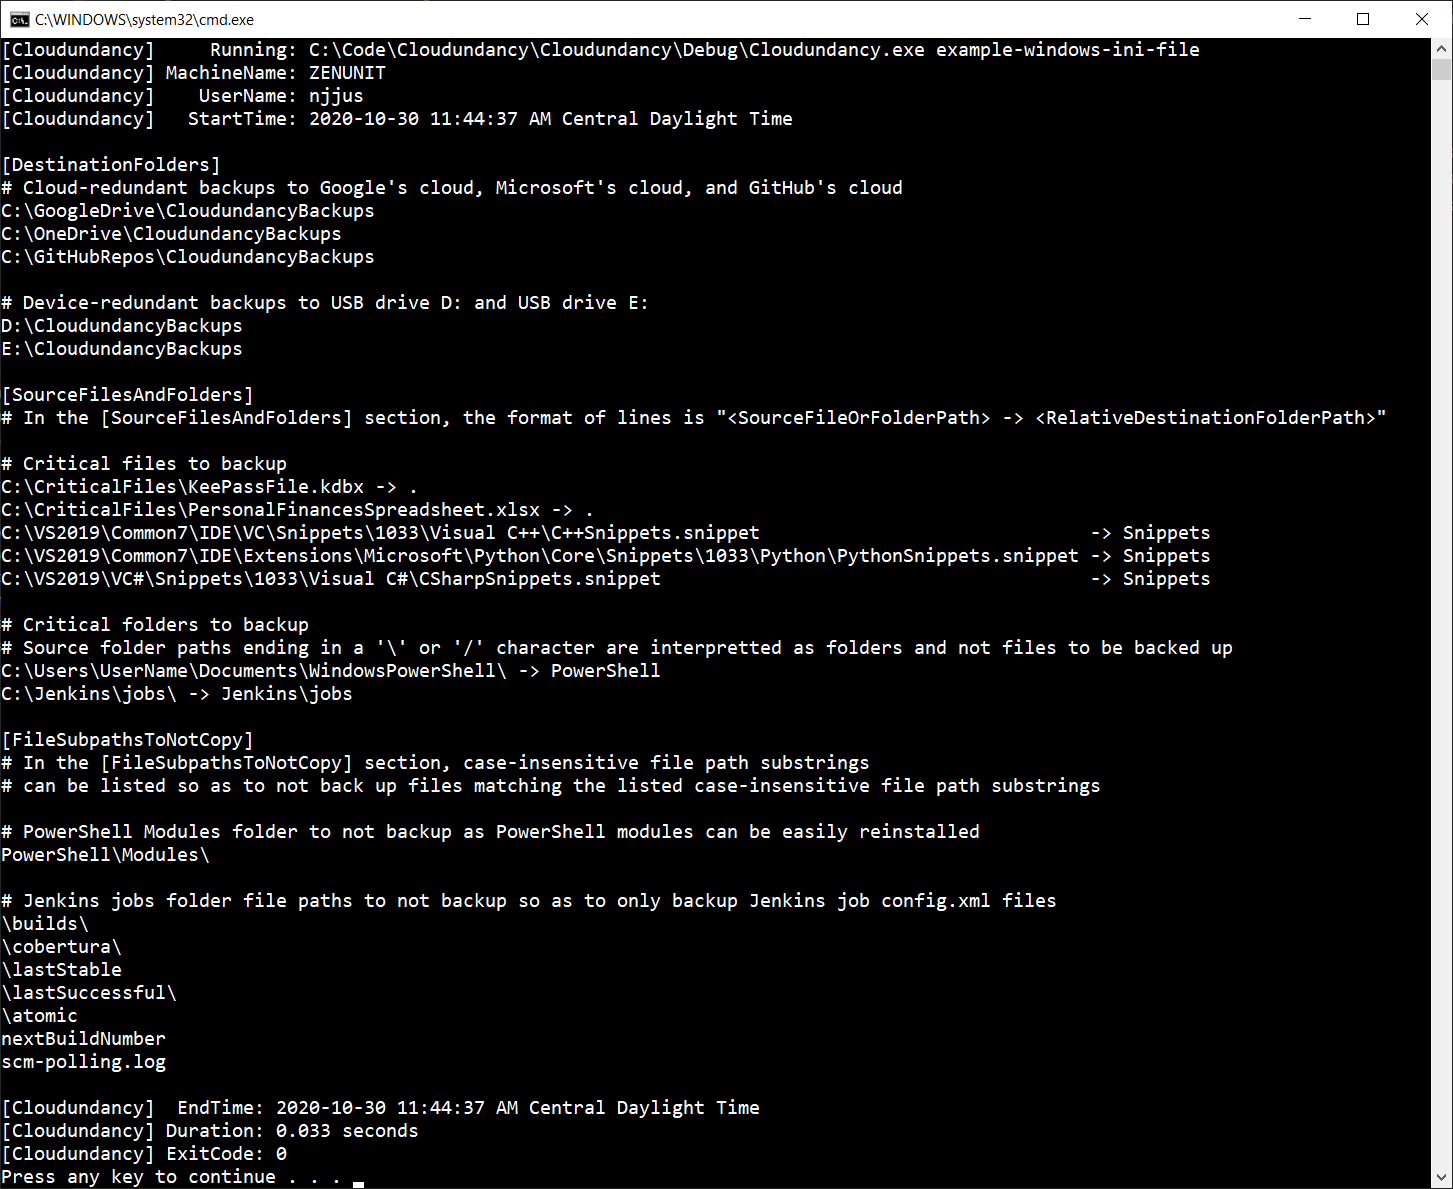
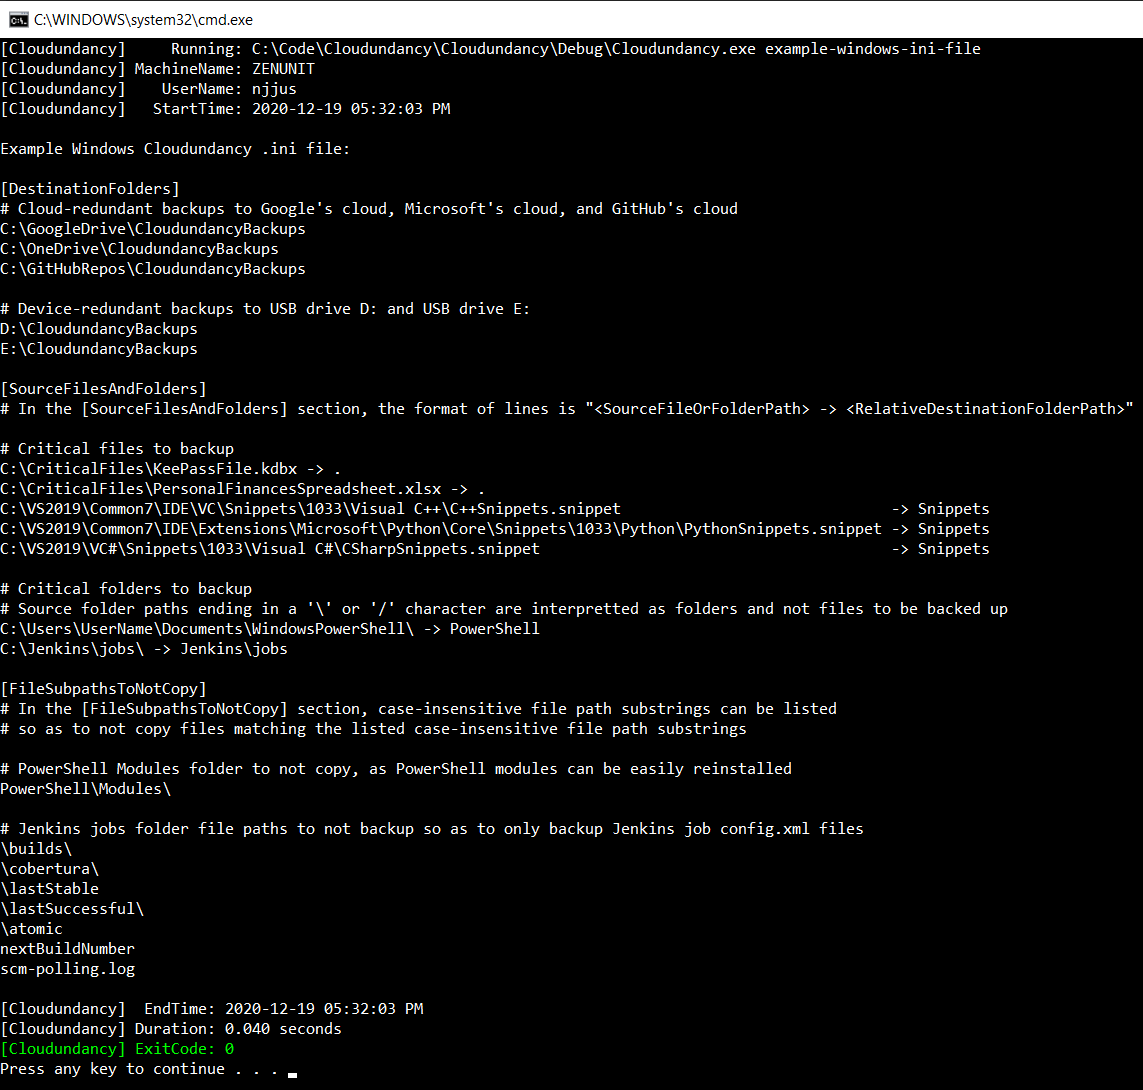
Update readme

Changed region(s): [[0.0, 0.0, 1.0, 1.0], [0.4287, 0.156, 0.6124, 0.2183], [0.6124, 0.1872, 0.643, 0.2183]]

diff --git a/libCloudundancyTests/Components/SubPrograms/ExampleWindowsIniFileSubProgramTests.cpp b/libCloudundancyTests/Components/SubPrograms/ExampleWindowsIniFileSubProgramTests.cpp
@@ -21,7 +21,7 @@ TEST(Run_PrintsExampleWindowsIniFile_Returns0)
    const int exitCode = _exampleWindowsIniFileSubProgram.Run(args);
    //
    const string expectedExampleWindowsIniFileText =
-      R"(
+R"(
 Example Windows Cloudundancy .ini file:
 
 [DestinationFolders]
@@ -50,10 +50,10 @@ C:\Users\UserName\Documents\WindowsPowerShell\ -> PowerShell
 C:\Jenkins\jobs\ -> Jenkins\jobs
 
 [FileSubpathsToNotCopy]
-# In the [FileSubpathsToNotCopy] section, case-insensitive file path substrings
-# can be listed so as to not back up files matching the listed case-insensitive file path substrings
+# In the [FileSubpathsToNotCopy] section, case-insensitive file path substrings can be listed
+# so as to not copy files matching the listed case-insensitive file path substrings
 
-# PowerShell Modules folder to not backup as PowerShell modules can be easily reinstalled
+# PowerShell Modules folder to not copy, as PowerShell modules can be easily reinstalled
 PowerShell\Modules\
 
 # Jenkins jobs folder file paths to not backup so as to only backup Jenkins job config.xml files

diff --git a/libCloudundancy/Components/SubPrograms/ExampleWindowsIniFileSubProgram.cpp b/libCloudundancy/Components/SubPrograms/ExampleWindowsIniFileSubProgram.cpp
@@ -33,10 +33,10 @@ C:\Users\UserName\Documents\WindowsPowerShell\ -> PowerShell
 C:\Jenkins\jobs\ -> Jenkins\jobs
 
 [FileSubpathsToNotCopy]
-# In the [FileSubpathsToNotCopy] section, case-insensitive file path substrings
-# can be listed so as to not back up files matching the listed case-insensitive file path substrings
+# In the [FileSubpathsToNotCopy] section, case-insensitive file path substrings can be listed
+# so as to not copy files matching the listed case-insensitive file path substrings
 
-# PowerShell Modules folder to not backup as PowerShell modules can be easily reinstalled
+# PowerShell Modules folder to not copy, as PowerShell modules can be easily reinstalled
 PowerShell\Modules\
 
 # Jenkins jobs folder file paths to not backup so as to only backup Jenkins job config.xml files

diff --git a/libCloudundancy/ValueTypes/CloudundancyArgs.cpp b/libCloudundancy/ValueTypes/CloudundancyArgs.cpp
@@ -2,7 +2,7 @@
 #include "libCloudundancy/ValueTypes/CloudundancyArgs.h"
 
 const string CloudundancyArgs::CommandLineUsage =
-R"(Cloudundancy v0.9.0 - Maker of cloud-redundant and device-redundant file backups
+R"(Cloudundancy v0.9.1 - Copies a list of files and folders to a list of destination folders.
 https://github.com/NeilJustice/Cloudundancy
 
 Usage:

diff --git a/libCloudundancyTests/ValueTypes/CloudundancyArgsTests.cpp b/libCloudundancyTests/ValueTypes/CloudundancyArgsTests.cpp
@@ -9,7 +9,7 @@ EVIDENCE
 TEST(CommandLineUsage_IsExpectedString)
 {
    ARE_EQUAL(
-R"(Cloudundancy v0.9.0 - Maker of cloud-redundant and device-redundant file backups
+R"(Cloudundancy v0.9.1 - Copies a list of files and folders to a list of destination folders.
 https://github.com/NeilJustice/Cloudundancy
 
 Usage:

diff --git a/README.md b/README.md
@@ -2,11 +2,11 @@
 
 [![Standard](https://img.shields.io/badge/c%2B%2B-17-blue.svg)](https://en.wikipedia.org/wiki/C%2B%2B17) [![License: MIT](https://img.shields.io/badge/License-MIT-blue.svg)](https://opensource.org/licenses/MIT)
 
-Cloudundancy is a C++ command line program which quickly copies a configurable list of files and folders to a configurable list of destination folders to achieve cloud-redundant and device-redundant backups of business-critical files.
+Cloudundancy is a C++ command line program which quickly copies a configurable list of files and folders to a configurable list of destination folders to achieve cloud-redundant and device-redundant backups of business-critical files by way of Google Drive and Microsoft OneDrive destination folders automatically uploading their contents to their respective clouds.
 
-For example, in a Cloudundancy.ini file, destination folders could be configured to be a Google Drive folder, a Microsoft OneDrive folder, and two USB drives to achieve the peace of mind that comes with having cloud-redundant and device-redundant backups of business-critical files.
+For example, in a Cloudundancy.ini file, destination folders could be configured to be a Google Drive folder, a Microsoft OneDrive folder, and two USB drives to achieve quadruple backups of business-critical files to two clouds and two USB drives.
 
-On Windows, Google Drive and Microsoft OneDrive folders automatically upload their contents to their respective clouds. On Linux, command line invocations of Google Drive and Microsoft OneDrive command line utilities would have to be added after a command line which runs Cloudundancy.
+On Windows, Google Drive and Microsoft OneDrive folders automatically upload their contents to their respective clouds. On Linux, command line invocations of Google Drive and Microsoft OneDrive command line utilities would have to be added after the invocation of Cloudundancy, so as to then upload Cloudundancy-copied files to Google's and Microsoft's clouds.
 
 |Cloudundancy Build Type|Build Status|
 |----------|------------|
@@ -31,7 +31,7 @@ Cloudundancy is rigorously unit tested with <a href="https://github.com/NeilJust
 ## Command Line Usage
 
 ```
-Cloudundancy v0.9.0 - Maker of cloud-redundant and device-redundant file backups
+Cloudundancy v0.9.1 - Maker of cloud-redundant and device-redundant file backups
 https://github.com/NeilJustice/Cloudundancy
 
 Usage:
@@ -60,7 +60,7 @@ Cloudundancy program mode `copy-files-to-multiple-folders` copies files and fold
 
 ### example-windows-ini-file
 
-Program mode `example-windows-ini-file` prints an example Windows Cloudundancy .ini file which shows how to achieve quintuple backups of business-critical files to three clouds (Google Drive, OneDrive, GitHub) and two USB drives (D: and E:).
+Cloudundancy program mode `example-windows-ini-file` prints an example Windows Cloudundancy .ini file which shows how to achieve quintuple backups of business-critical files to two auto-cloud-uploading folders (Google Drive and Microsoft OneDrive), one folder which requires `git add/commit/push` to reach its corresponding cloud (GitHub), and two USB drives (D: and E:).
 
 `example-windows-ini-file` console output:
 
@@ -95,10 +95,10 @@ C:\Users\UserName\Documents\WindowsPowerShell\ -> PowerShell
 C:\Jenkins\jobs\ -> Jenkins\jobs
 
 [FileSubpathsToNotCopy]
-# In the [FileSubpathsToNotCopy] section, case-insensitive file path substrings
-# can be listed so as to not back up files matching the listed case-insensitive file path substrings
+# In the [FileSubpathsToNotCopy] section, case-insensitive file path substrings can be listed
+# so as to not copy files matching the listed case-insensitive file path substrings
 
-# PowerShell Modules folder to not backup as PowerShell modules can be easily reinstalled
+# PowerShell Modules folder to not copy, as PowerShell modules can be easily reinstalled
 PowerShell\Modules\
 
 # Jenkins jobs folder file paths to not backup so as to only backup Jenkins job config.xml files
